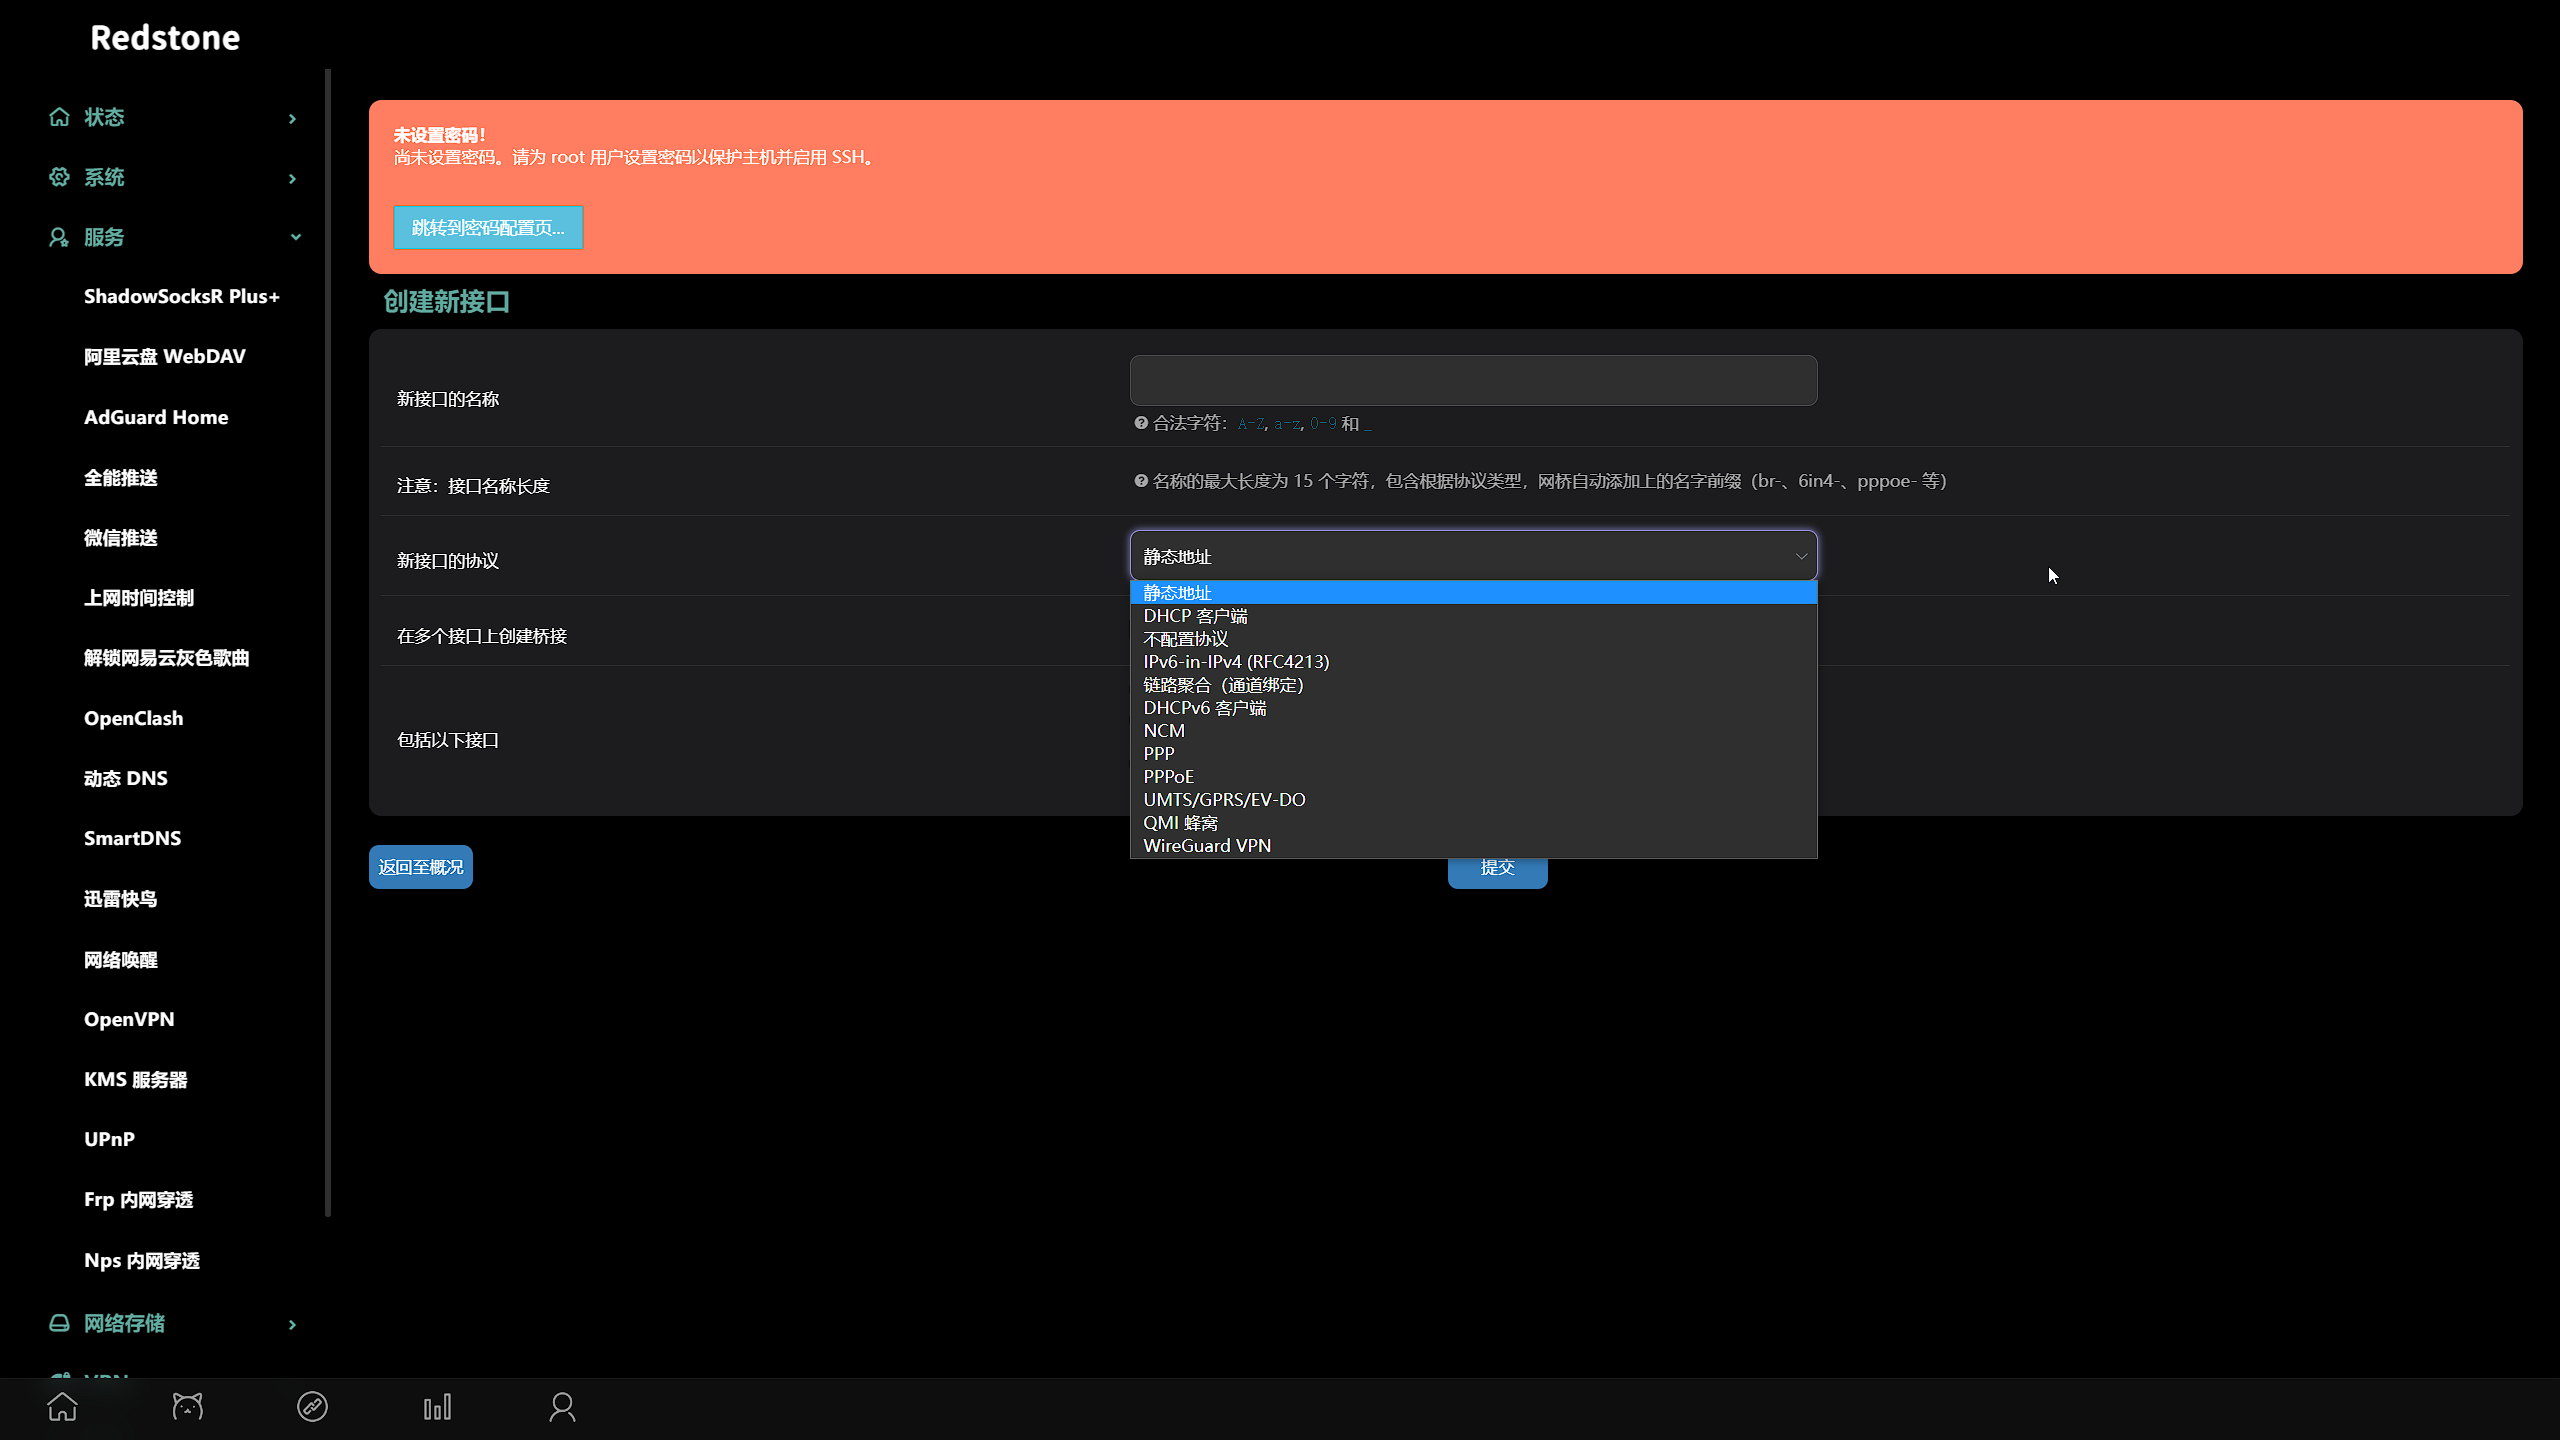
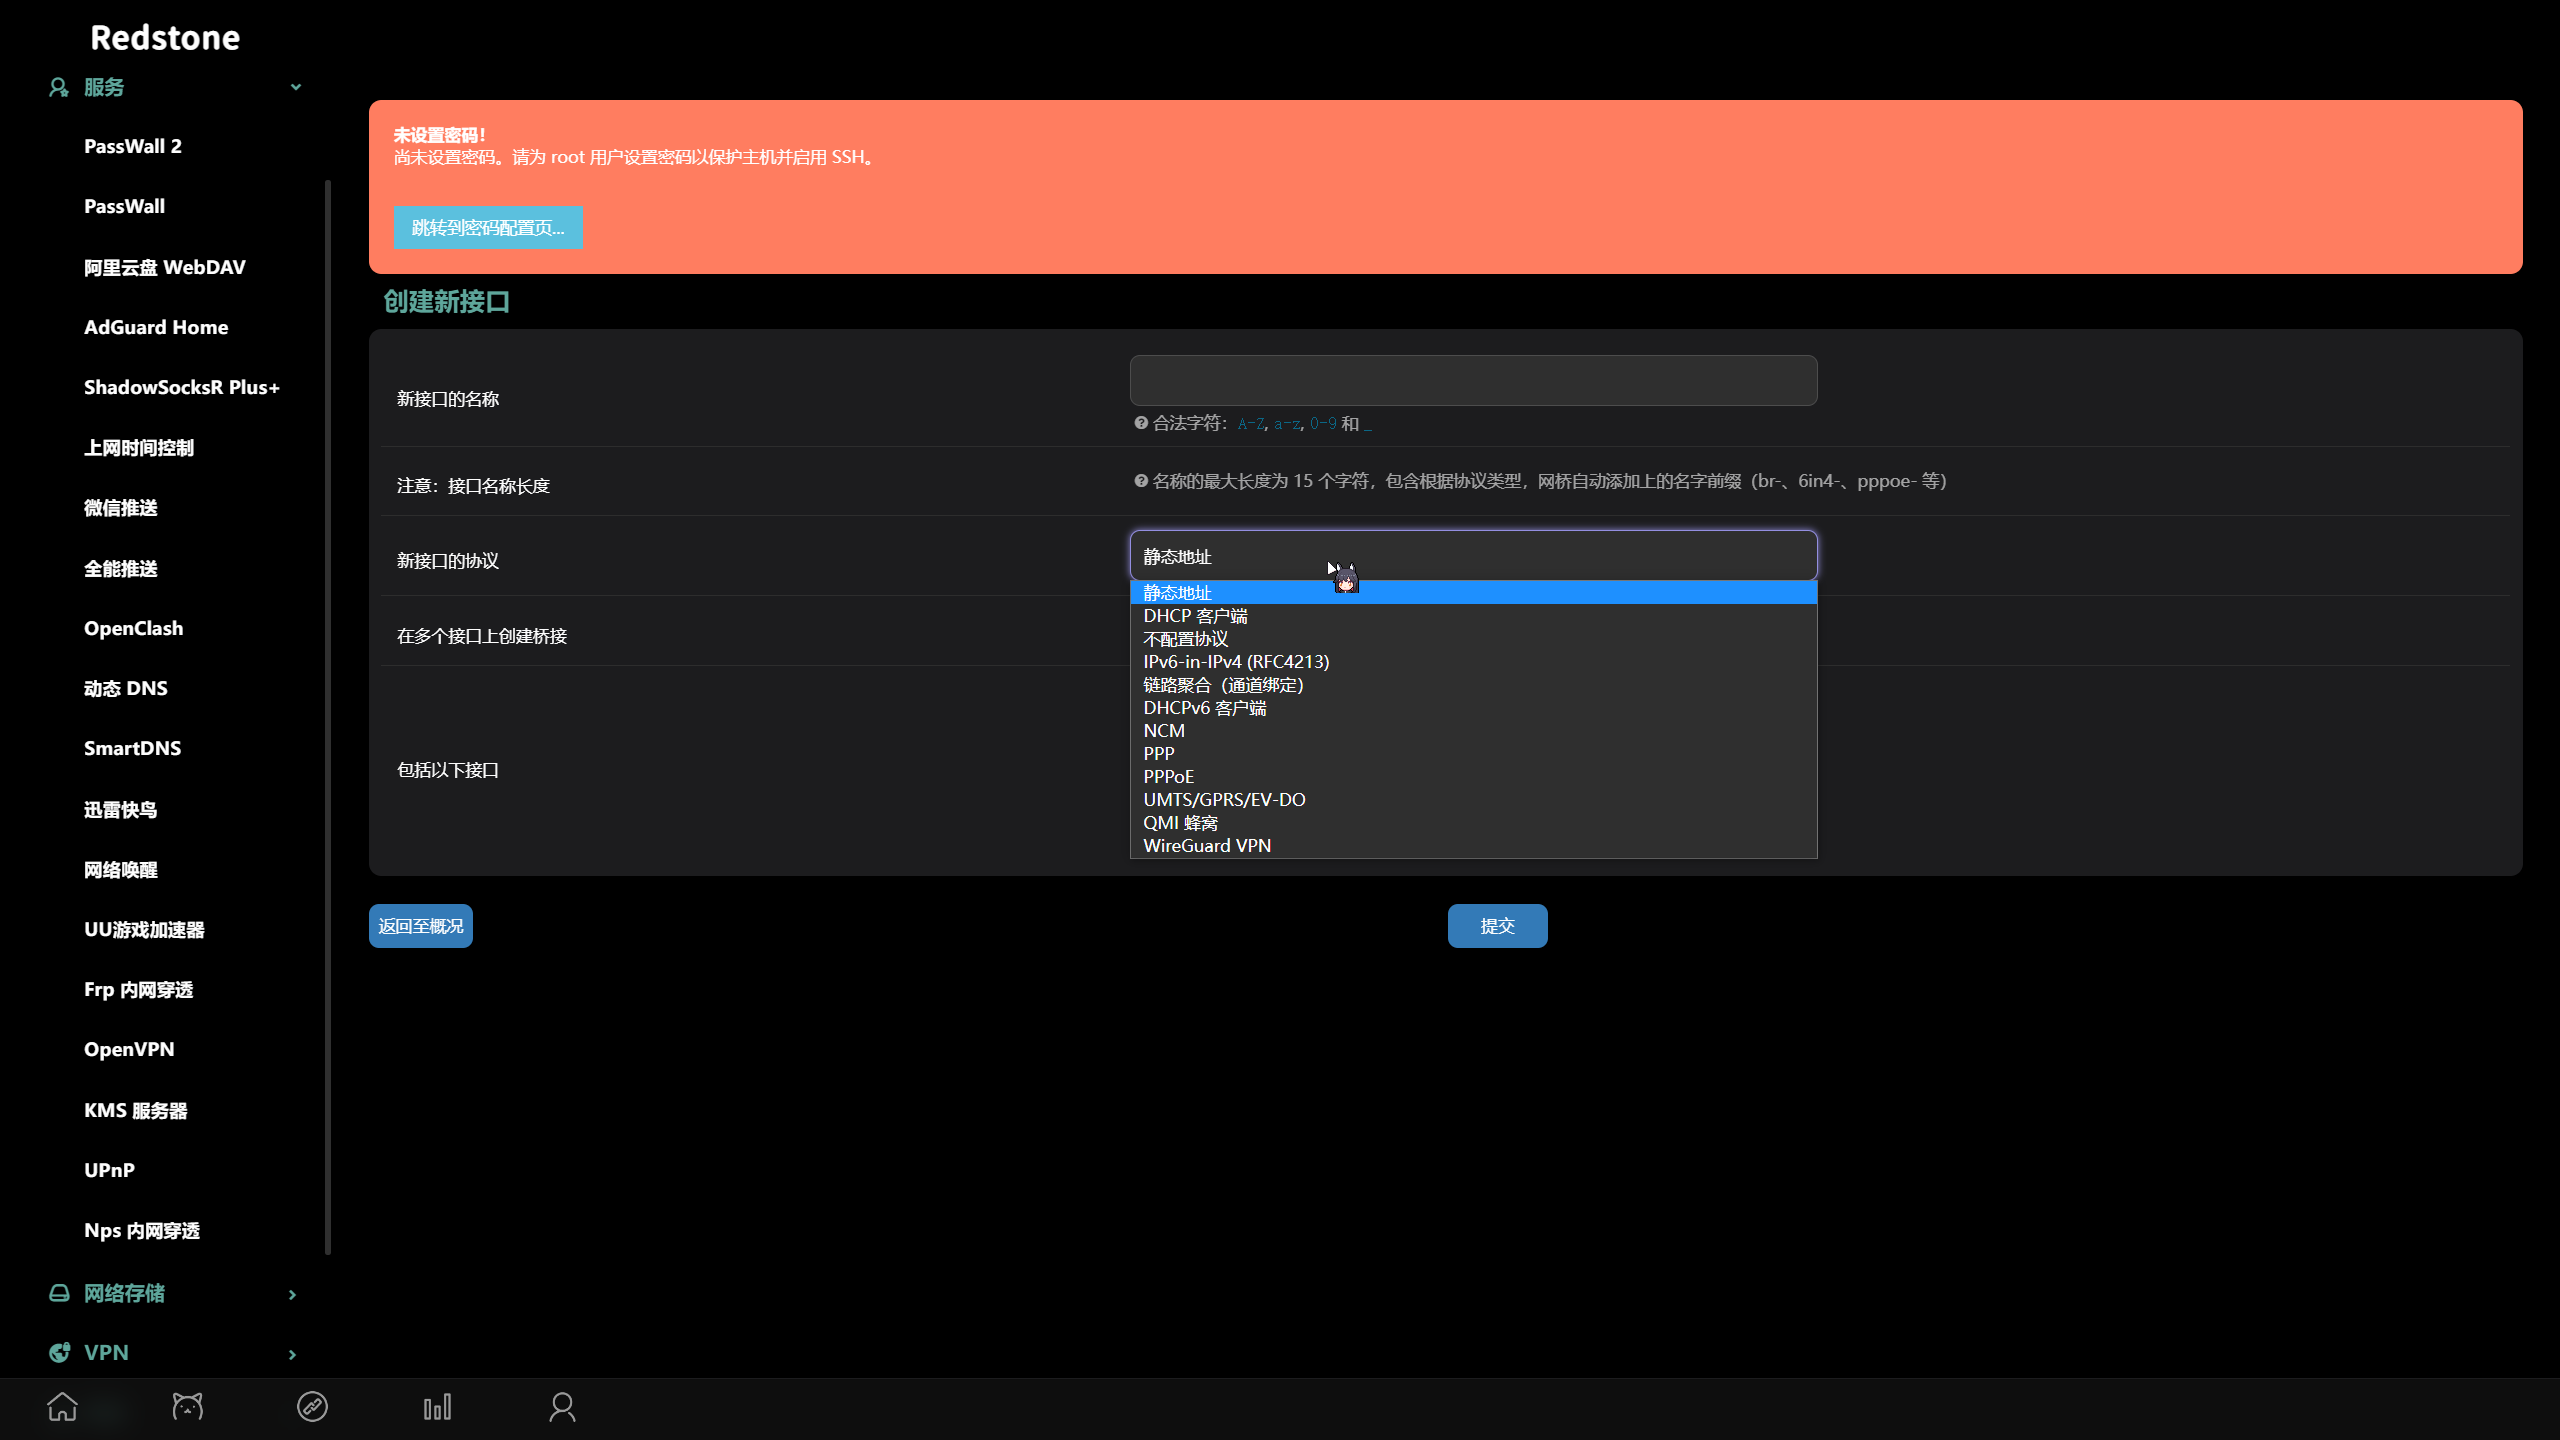
更新 Readme

diff --git a/README.md b/README.md
@@ -2,59 +2,59 @@
 
 本固件适配 x86-64 设备的主路由和旁路由模式，追求稳定、轻量且美观，有着完整的 IPv6 支持，编译并安装了下列 luci-app：
 
-1、luci-app-accesscontrol  
-2、luci-app-adguardhome  
-3、luci-app-aliyundrive-webdav  
-4、luci-app-arpbind  
-5、luci-app-autoreboot  
-6、luci-app-cifs-mount  
-7、luci-app-commands  
-8、luci-app-ddns  
-9、luci-app-design-config  
-10、luci-app-diskman  
-11、luci-app-filetransfer  
-12、luci-app-firewall  
-13、luci-app-frpc  
-14、luci-app-ipsec-vpnd  
-15、luci-app-mwan3  
-16、luci-app-n2n  
-17、luci-app-netdata  
-18、luci-app-nfs  
-19、luci-app-nlbwmon  
-20、luci-app-nps  
-21、luci-app-openclash  
-22、luci-app-openvpn  
-23、luci-app-passwall  
-24、luci-app-passwall_Iptables_Transparent_Proxy  
-25、luci-app-passwall2  
-26、luci-app-passwall2_Iptables_Transparent_Proxy  
-27、luci-app-pushbot  
-28、luci-app-qbittorrent  
-29、luci-app-qbittorrent-simple_dynamic  
-30、luci-app-qos  
-31、luci-app-samba4  
-32、luci-app-serverchan  
-33、luci-app-smartdns  
-34、luci-app-softethervpn  
-35、luci-app-ssr-plus  
-36、luci-app-syncdial  
-37、luci-app-ttyd  
-38、luci-app-turboacc  
-39、luci-app-upnp  
-40、luci-app-usb-printer  
-41、luci-app-uugamebooster  
-42、luci-app-vlmcsd  
-43、luci-app-vsftpd  
-44、luci-app-webadmin  
-45、luci-app-wireguard  
-46、luci-app-wol  
-47、luci-app-xlnetacc  
-48、luci-app-zerotier  
-49、luci-theme-argon  
-50、luci-theme-bootstrap  
-51、luci-theme-design  
-52、luci-theme-material  
-53、luci-theme-netgear
+- luci-app-accesscontrol
+- luci-app-adguardhome
+- luci-app-aliyundrive-webdav
+- luci-app-arpbind
+- luci-app-autoreboot
+- luci-app-cifs-mount
+- luci-app-commands
+- luci-app-ddns
+- luci-app-design-config
+- luci-app-diskman
+- luci-app-filetransfer
+- luci-app-firewall
+- luci-app-frpc
+- luci-app-ipsec-vpnd
+- luci-app-mwan3
+- luci-app-n2n
+- luci-app-netdata
+- luci-app-nfs
+- luci-app-nlbwmon
+- luci-app-nps
+- luci-app-openclash
+- luci-app-openvpn
+- luci-app-passwall
+- luci-app-passwall_Iptables_Transparent_Proxy
+- luci-app-passwall2
+- luci-app-passwall2_Iptables_Transparent_Proxy
+- luci-app-pushbot
+- luci-app-qbittorrent
+- luci-app-qbittorrent-simple_dynamic
+- luci-app-qos
+- luci-app-samba4
+- luci-app-serverchan
+- luci-app-smartdns
+- luci-app-softethervpn
+- luci-app-ssr-plus
+- luci-app-syncdial
+- luci-app-ttyd
+- luci-app-turboacc
+- luci-app-upnp
+- luci-app-usb-printer
+- luci-app-uugamebooster
+- luci-app-vlmcsd
+- luci-app-vsftpd
+- luci-app-webadmin
+- luci-app-wireguard
+- luci-app-wol
+- luci-app-xlnetacc
+- luci-app-zerotier
+- luci-theme-argon
+- luci-theme-bootstrap
+- luci-theme-design
+- luci-theme-material
+- luci-theme-netgear
 
 下载： [Releases](https://github.com/moemoe-orange/x86-64-OpenWrt/releases)
 
@@ -63,10 +63,6 @@
 | 192.168.1.1 | root     | password |
 
 ## 预览：
-
-> **Warning**  
-> 截图更新不及时，最新插件请以上面列出的为准  
-> 大体结构不变，仅是插件存在变化  
 
 <img src="./img/preview-lede.png"/>
 
